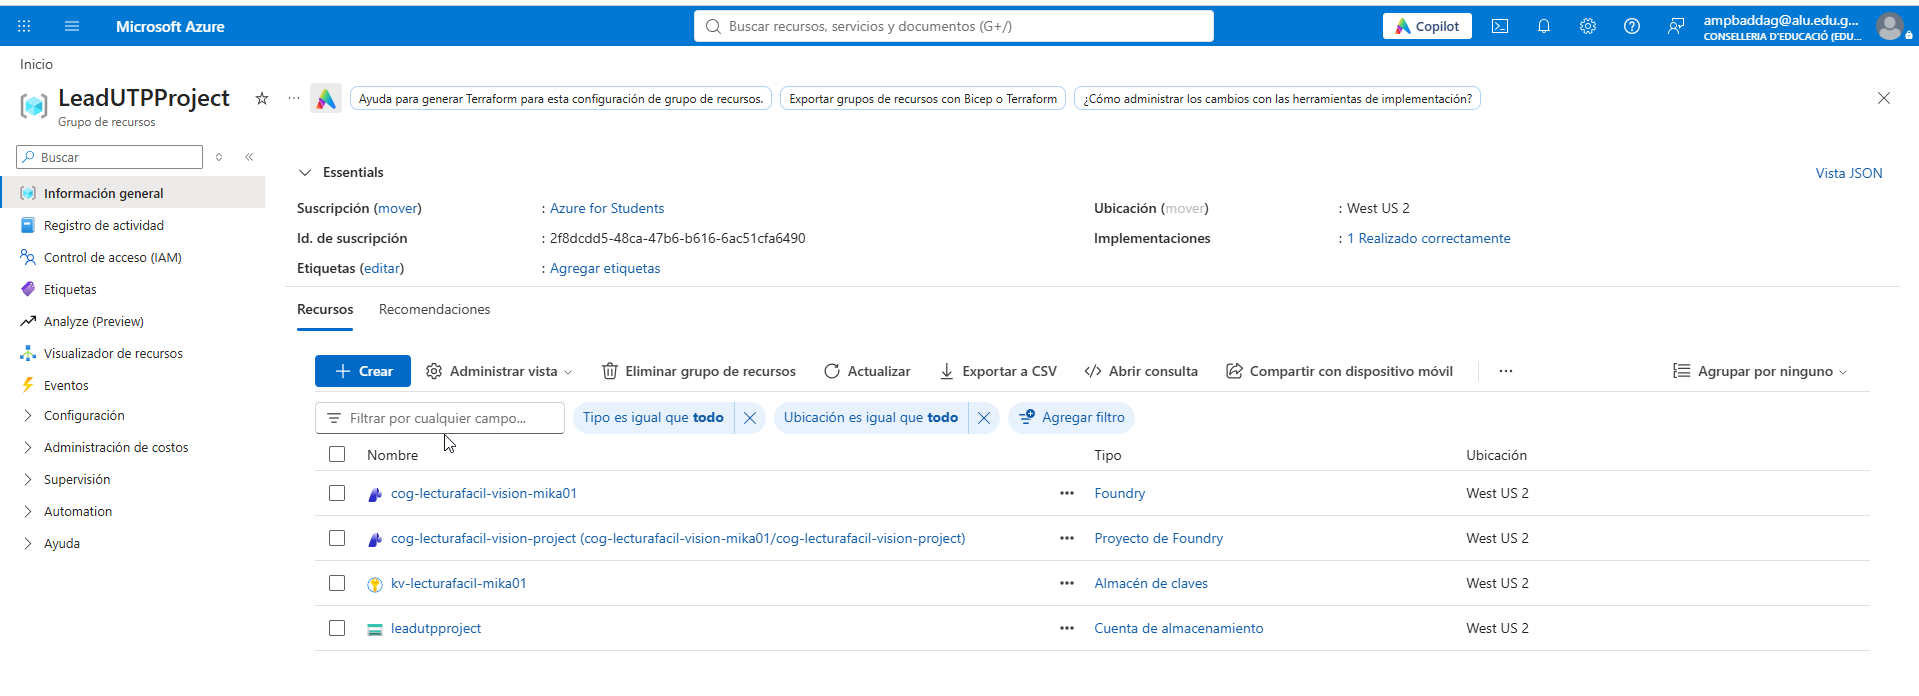
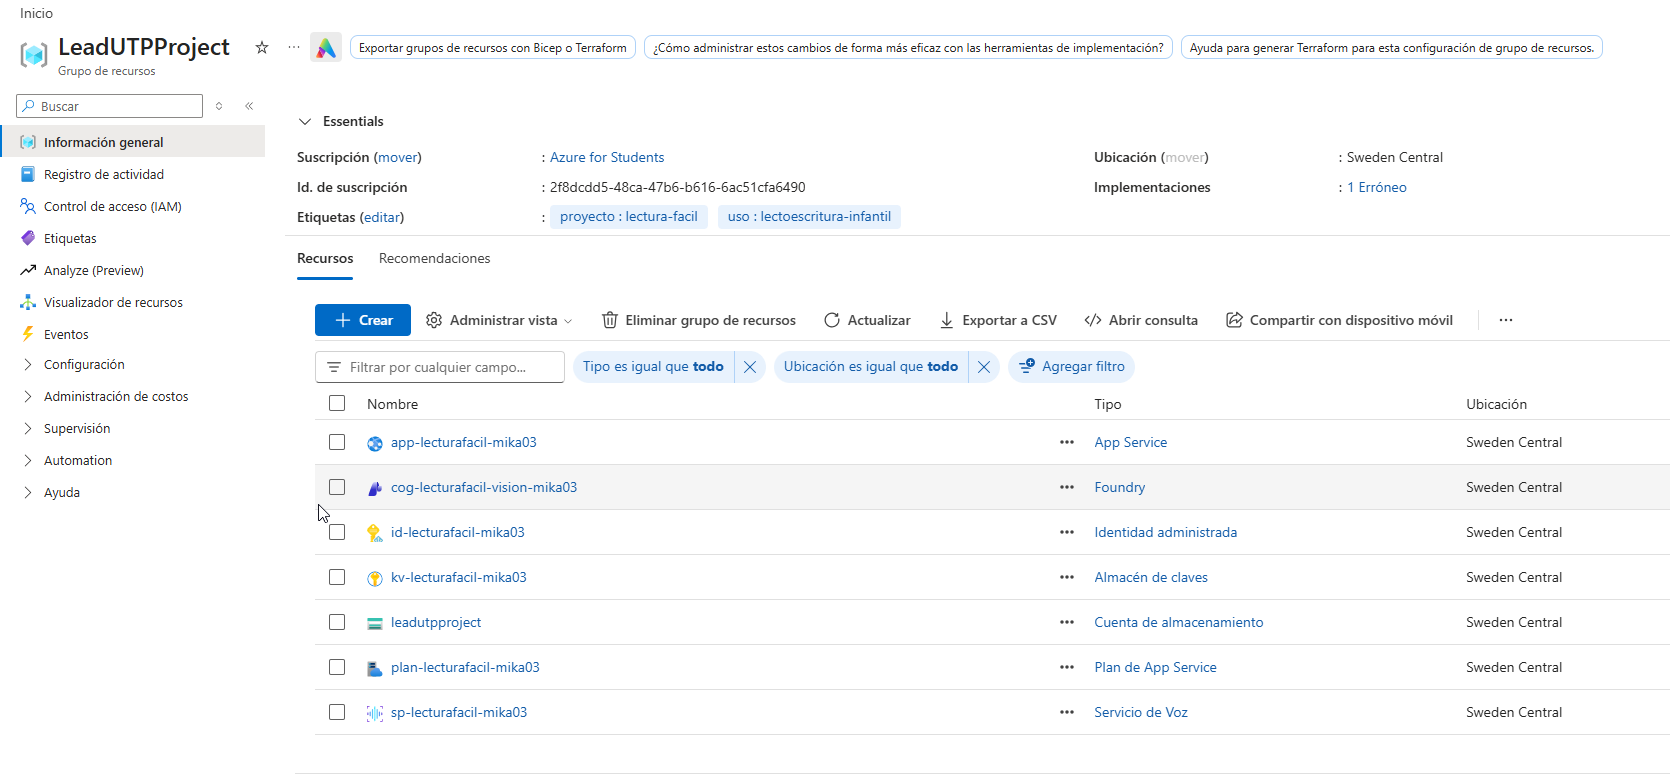
Subir imagen con servicios desplegados, poner idima por defecto castellano.. deshabilitar traduccion.

diff --git a/app/static/js/app.js b/app/static/js/app.js
@@ -640,7 +640,12 @@
       speakButton.classList.remove("is-listening");
     };
 
-    const recognition = browserRecognition();
+    // En modo "azure" se usa siempre el reconocimiento del servidor: así el
+    // micrófono funciona igual en Firefox y Safari, y el audio no se envía a
+    // los servidores de Google. En "auto" se prueba el navegador primero
+    // porque no cuesta nada y la latencia es menor.
+    const recognition =
+      config.speechBackend === "azure" ? null : browserRecognition();
     if (!recognition) {
       finish();
       recognizeWithServer(card, word, index);

diff --git a/app/api/dependencies.py b/app/api/dependencies.py
@@ -37,8 +37,13 @@ def get_container(request: Request) -> ServiceContainer:
 def get_language(request: Request) -> str:
     """Resuelve el idioma de la petición.
 
-    Prioridad: parámetro ``lang`` > cookie ``lang`` > cabecera
-    ``Accept-Language``.
+    Prioridad: parámetro ``lang`` > cookie ``lang`` > idioma por defecto.
+
+    La cabecera ``Accept-Language`` se ignora a propósito: un navegador en
+    valenciano la envía como ``ca-ES`` y la app arrancaba en valenciano aunque
+    el idioma por defecto sea el castellano. El idioma solo cambia si el usuario
+    lo pide de forma explícita (con el selector, que guarda la cookie, o con
+    ``?lang=ca``).
 
     Args:
         request: Petición HTTP en curso.
@@ -52,7 +57,23 @@ def get_language(request: Request) -> str:
     cookie_language = request.cookies.get("lang")
     if cookie_language:
         return normalize_language(cookie_language)
-    return normalize_language(request.headers.get("accept-language"))
+    return _default_language(request)
+
+
+def _default_language(request: Request) -> str:
+    """Idioma por defecto configurado en la aplicación.
+
+    Args:
+        request: Petición HTTP en curso.
+
+    Returns:
+        Código de idioma de ``LECTURA_DEFAULT_LANGUAGE`` (``"es"`` si no hay
+        contenedor disponible todavía).
+    """
+    container: ServiceContainer | None = getattr(request.app.state, "container", None)
+    if container is None:
+        return normalize_language(None)
+    return normalize_language(container.settings.default_language)
 
 
 ContainerDep = Annotated[ServiceContainer, Depends(get_container)]

diff --git a/tests/integration/test_api.py b/tests/integration/test_api.py
@@ -87,6 +87,32 @@ def test_home_renders_in_valencian(client: TestClient) -> None:
     assert "Anem a llegir junts" in response.text
 
 
+def test_home_defaults_to_spanish_even_with_a_catalan_browser(
+    client: TestClient,
+) -> None:
+    """Un navegador en valenciano no cambia el idioma por defecto.
+
+    Antes se leía ``Accept-Language``, así que un navegador con ``ca-ES``
+    abría la app en valenciano aunque el idioma por defecto fuese castellano.
+    El idioma solo debe cambiar con el selector (cookie) o con ``?lang=``.
+    """
+    response = client.get("/", headers={"Accept-Language": "ca-ES,ca;q=0.9"})
+
+    assert response.status_code == 200
+    assert 'lang="es"' in response.text
+    assert "Vamos a leer juntos" in response.text
+
+
+def test_cookie_still_overrides_the_default_language(client: TestClient) -> None:
+    """La elección explícita del usuario (cookie) se respeta."""
+    client.cookies.set("lang", "ca")
+
+    response = client.get("/", headers={"Accept-Language": "es-ES,es;q=0.9"})
+
+    assert response.status_code == 200
+    assert 'lang="ca"' in response.text
+
+
 def test_home_exposes_the_voice_backend(client: TestClient) -> None:
     """La interfaz conoce qué motor de voz debe usar."""
     response = client.get("/")

diff --git a/app/core/errors.py b/app/core/errors.py
@@ -70,7 +70,11 @@ class ServiceError(AppError):
 
 
 def _request_language(request: Request) -> str:
-    """Resuelve el idioma de la petición (cookie, query o cabecera).
+    """Resuelve el idioma de la petición (query, cookie o idioma por defecto).
+
+    Se ignora ``Accept-Language`` a propósito, igual que en
+    :func:`app.api.dependencies.get_language`: el idioma solo cambia si el
+    usuario lo elige explícitamente.
 
     Args:
         request: Petición HTTP entrante.
@@ -84,7 +88,9 @@ def _request_language(request: Request) -> str:
     cookie_language = request.cookies.get("lang")
     if cookie_language:
         return normalize_language(cookie_language)
-    return normalize_language(request.headers.get("accept-language"))
+    container = getattr(request.app.state, "container", None)
+    configured = getattr(getattr(container, "settings", None), "default_language", None)
+    return normalize_language(configured)
 
 
 async def app_error_handler(request: Request, exc: Exception) -> JSONResponse:

diff --git a/tests/unit/test_speech.py b/tests/unit/test_speech.py
@@ -22,6 +22,19 @@ def test_build_ssml_escapes_special_chars() -> None:
     assert ssml.startswith("<speak")
 
 
+def test_build_ssml_uses_the_official_namespace() -> None:
+    """Azure solo acepta el namespace oficial de Speech Synthesis.
+
+    Con "http://www.w3.org/2001/05/speechml" el servicio devuelve 400 y la app
+    lo convertía en un 502 tts_error. El error no lo detectaban los tests
+    porque la llamada HTTP estaba simulada: este test fija el valor correcto.
+    """
+    ssml = build_ssml("hola", "es-ES-ElviraNeural", "es-ES")
+
+    assert "http://www.w3.org/2001/10/synthesis" in ssml
+    assert "speechml" not in ssml
+
+
 def test_parse_recognition_success() -> None:
     """Se toma la mejor hipótesis de la respuesta correcta."""
     result = _parse_recognition(

diff --git a/app/services/speech.py b/app/services/speech.py
@@ -106,7 +106,7 @@ def build_ssml(text: str, voice: str, locale: str) -> str:
         Documento SSML listo para enviar al servicio.
     """
     return (
-        "<speak version='1.0' xmlns='http://www.w3.org/2001/05/speechml'"
+        "<speak version='1.0' xmlns='http://www.w3.org/2001/10/synthesis'"
         f" xml:lang='{escape(locale)}'>"
         f"<voice xml:lang='{escape(locale)}' name='{escape(voice)}'>"
         f"{escape(text)}"

diff --git a/README.md b/README.md
@@ -3,6 +3,8 @@
 Aplicación web interactiva para que niños de 5 años pratiquen su ficha semanal
 de lectura en **castellano** y **valenciano**.
 
+App Service desplegado: https://app-lecturafacil-mika03.azurewebsites.net/
+
 Ejemplo de recursos desplegados:
 ![Recursos desplegados en Azure](app/static/assets/images/image.png)
 
